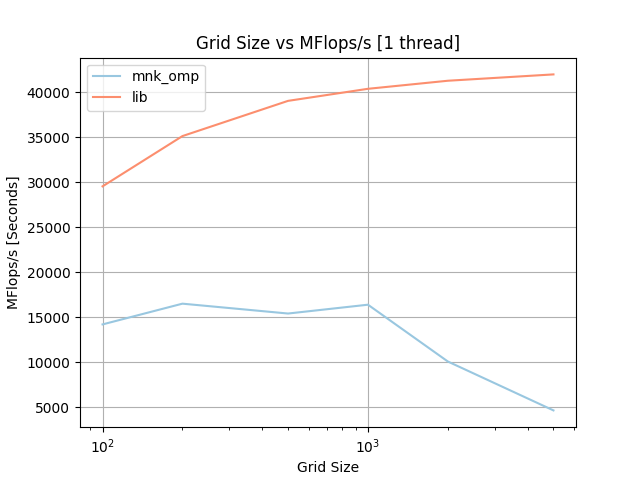
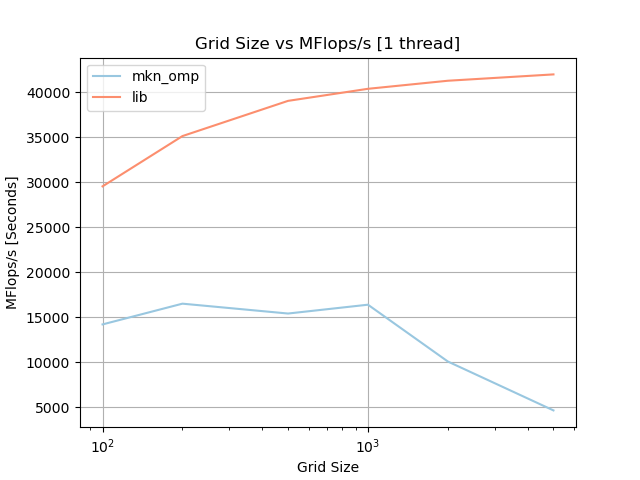
updated plots to use correct permutation as labels

diff --git a/src/part1/q1plot1.py b/src/part1/q1plot1.py
@@ -13,7 +13,7 @@ mflops_mnk_omp = [14201.118, 16508.646, 15411.208, 16393.493, 10076.269, 4638.62
 mflops_lib = [29556.080, 35145.500, 39062.466, 40403.069, 41299.614, 42005.140]
 
 
-plt.plot(grid_sizes, mflops_mnk_omp, linestyle='-', label="mnk_omp", color=plt.cm.Blues(np.linspace(0.3, 1, len(threads)))[1])
+plt.plot(grid_sizes, mflops_mnk_omp, linestyle='-', label="mkn_omp", color=plt.cm.Blues(np.linspace(0.3, 1, len(threads)))[1])
 plt.plot(grid_sizes, mflops_lib, linestyle='-', label="lib", color=plt.cm.Reds(np.linspace(0.3, 1, len(threads)))[1])
 # plt.yscale('log')
 plt.xscale('log')  # Set x-axis to log scale for better visualization

diff --git a/src/part1/q1plot2.py b/src/part1/q1plot2.py
@@ -30,7 +30,7 @@ iterations_lib_16_threads = [67047.808, 187018.319, 384814.539, 485318.683, 5735
 thread_numbers = [1, 2, 4, 6, 8, 10, 12, 14, 16]
 
 # Get unique labels for each combination of implementation and thread number
-labels_mnk_omp = [f'mnk_omp - {n} thread(s)' for n in thread_numbers]
+labels_mnk_omp = [f'mkn_omp - {n} thread(s)' for n in thread_numbers]
 labels_lib = [f'lib - {n} thread(s)' for n in thread_numbers]
 labels = labels_mnk_omp + labels_lib
 
